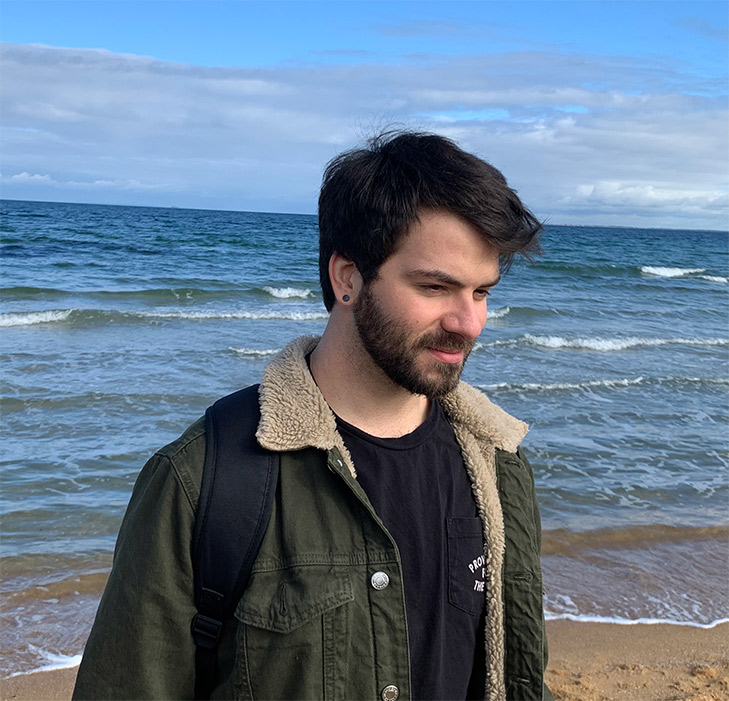
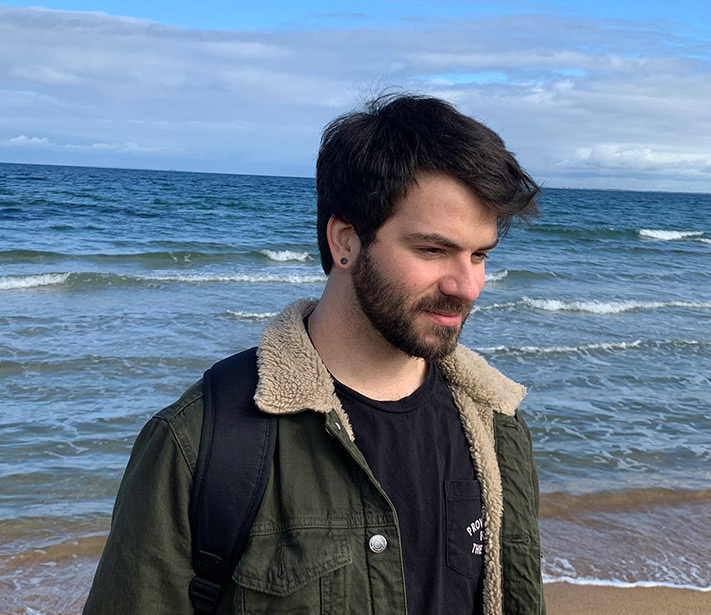
Updated profile images
- Updated Thomas
- Updated Brent
- Crop Leonards image to match

diff --git a/profiles.html b/profiles.html
@@ -62,7 +62,7 @@
 
 									<section class="features">
 										<article>
-											<img class="image" src="images/profiles/brent.png" alt="Brent Kimm" />
+											<img class="image" src="images/profiles/brent.jpg" alt="Brent Kimm" />
 											<h3 class="major">Brent Kimm - s3873880</h3>
 
 											<p>My name is Brent Kimm, S3873880, S3873880@student.rmit.edu.au; I am a 30-year-old male from Melbourne, Australia.
